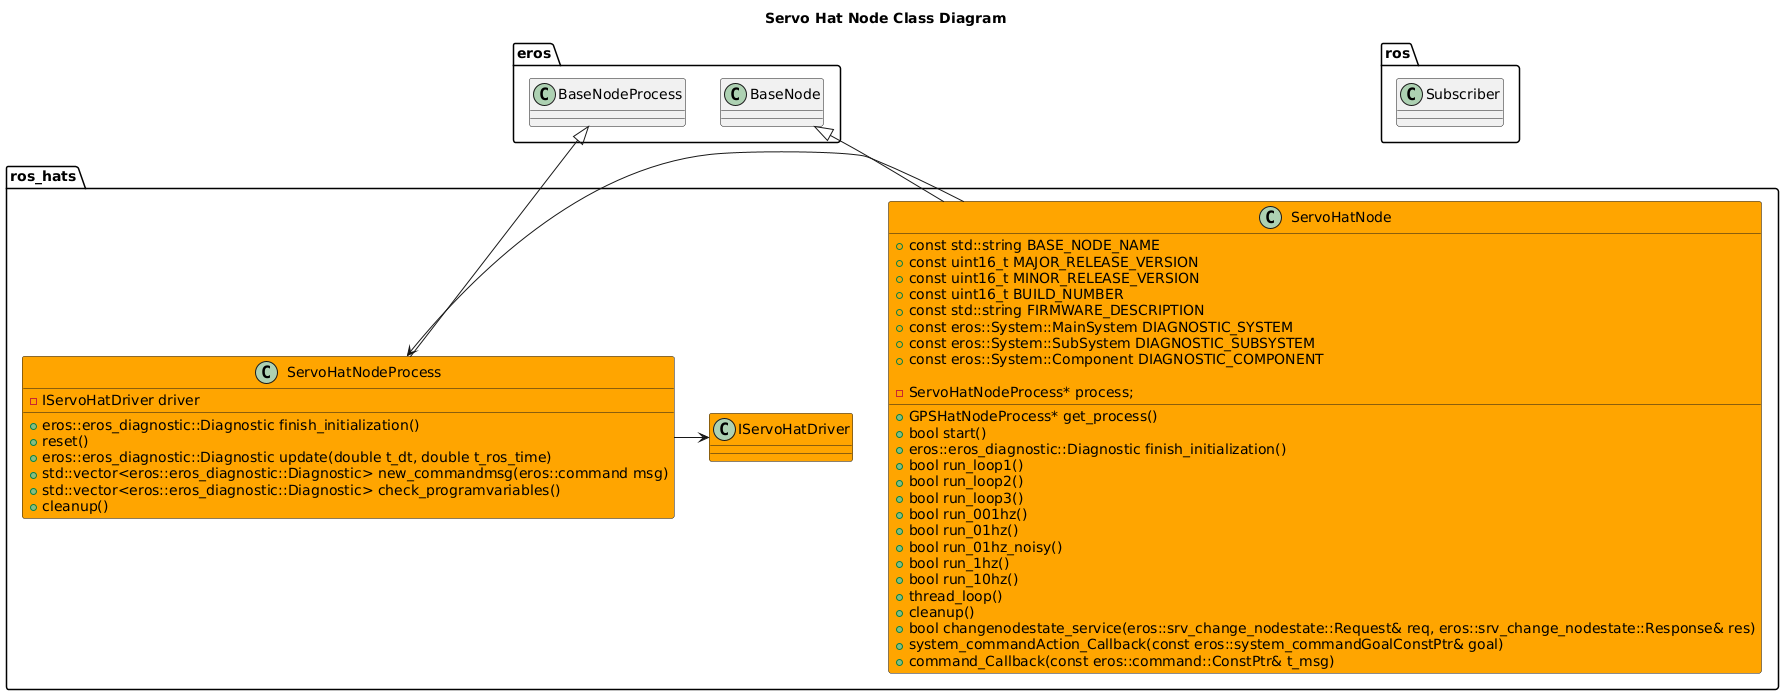
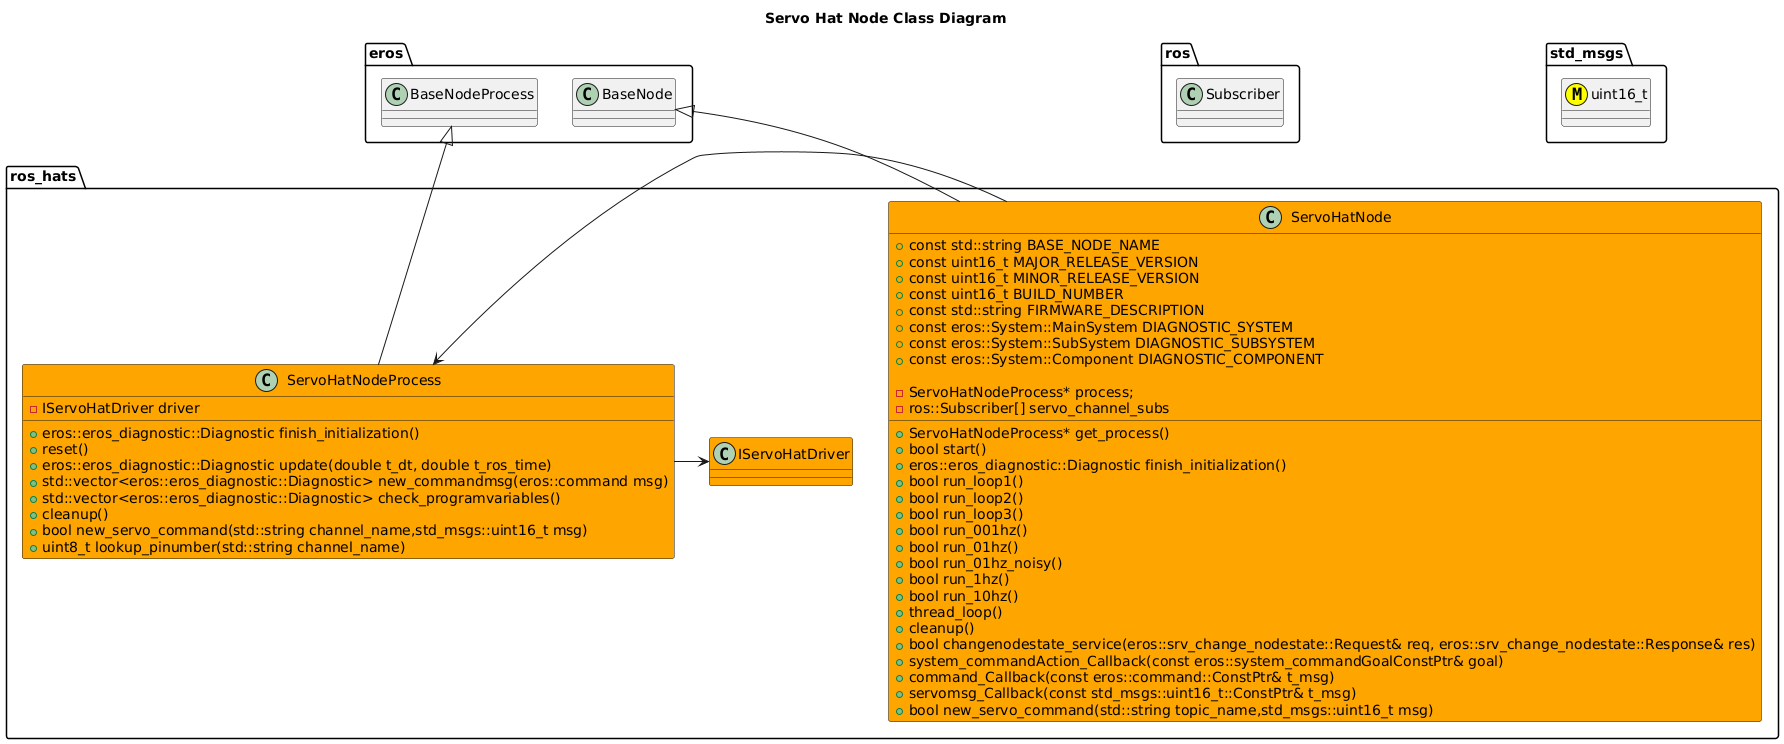
Major work done.

diff --git a/nodes/ServoHatNode/node/ServoHatNode.cpp b/nodes/ServoHatNode/node/ServoHatNode.cpp
@@ -6,7 +6,7 @@ ServoHatNode::ServoHatNode()
     : system_command_action_server(
           *n.get(),
           read_robotnamespace() + "SystemCommandAction",
-          boost::bind(&GPSHatNode::system_commandAction_Callback, this, _1),
+          boost::bind(&ServoHatNode::system_commandAction_Callback, this, _1),
           false) {
     system_command_action_server.start();
 }
@@ -45,7 +45,7 @@ bool ServoHatNode::changenodestate_service(eros::srv_change_nodestate::Request &
 bool ServoHatNode::start() {
     initialize_diagnostic(DIAGNOSTIC_SYSTEM, DIAGNOSTIC_SUBSYSTEM, DIAGNOSTIC_COMPONENT);
     bool status = false;
-    process = new GPSHatNodeProcess();
+    process = new ServoHatNodeProcess();
     set_basenodename(BASE_NODE_NAME);
     initialize_firmware(
         MAJOR_RELEASE_VERSION, MINOR_RELEASE_VERSION, BUILD_NUMBER, FIRMWARE_DESCRIPTION);
@@ -76,7 +76,7 @@ bool ServoHatNode::start() {
     diagnostic_types.push_back(eros::eros_diagnostic::DiagnosticType::DATA_STORAGE);
     diagnostic_types.push_back(eros::eros_diagnostic::DiagnosticType::SYSTEM_RESOURCE);
     diagnostic_types.push_back(eros::eros_diagnostic::DiagnosticType::COMMUNICATIONS);
-    diagnostic_types.push_back(eros::eros_diagnostic::DiagnosticType::TODO);
+    diagnostic_types.push_back(eros::eros_diagnostic::DiagnosticType::ACTUATORS);
     process->enable_diagnostics(diagnostic_types);
     process->finish_initialization();
     diagnostic = finish_initialization();
@@ -107,7 +107,7 @@ bool ServoHatNode::start() {
 eros::eros_diagnostic::Diagnostic ServoHatNode::read_launchparameters() {
     eros::eros_diagnostic::Diagnostic diag = diagnostic;
     command_sub = n->subscribe<eros::command>(
-        get_robotnamespace() + "SystemCommand", 10, &GPSHatNode::command_Callback, this);
+        get_robotnamespace() + "SystemCommand", 10, &ServoHatNode::command_Callback, this);
     get_logger()->log_notice("Configuration Files Loaded.");
     return diag;
 }
@@ -128,25 +128,25 @@ eros::eros_diagnostic::Diagnostic ServoHatNode::finish_initialization() {
                                       eros::Level::Type::INFO,
                                       eros::eros_diagnostic::Message::NOERROR,
                                       "All Configuration Files Loaded.");
-    diag = process->update_diagnostic(eros::eros_diagnostic::DiagnosticType::TODO,
+    diag = process->update_diagnostic(eros::eros_diagnostic::DiagnosticType::ACTUATORS,
                                       eros::Level::Type::WARN,
                                       eros::eros_diagnostic::Message::INITIALIZING,
-                                      "GPS Initializing...");
+                                      "Servo Hat Initializing...");
     return diag;
 }
-bool GPSHatNode::run_loop1() {
+bool ServoHatNode::run_loop1() {
     return true;
 }
-bool GPSHatNode::run_loop2() {
+bool ServoHatNode::run_loop2() {
     return true;
 }
-bool GPSHatNode::run_loop3() {
+bool ServoHatNode::run_loop3() {
     return true;
 }
-bool GPSHatNode::run_001hz() {
+bool ServoHatNode::run_001hz() {
     return true;
 }
-bool GPSHatNode::run_01hz() {
+bool ServoHatNode::run_01hz() {
     return true;
 }
 bool ServoHatNode::run_01hz_noisy() {
@@ -221,7 +221,7 @@ int main(int argc, char **argv) {
         return EXIT_FAILURE;
         // LCOV_EXCL_STOP
     }
-    std::thread thread(&ros_hats::GPSHatNode::thread_loop, node);
+    std::thread thread(&ros_hats::ServoHatNode::thread_loop, node);
     while ((status == true) and (kill_node == false)) {
         status = node->update(node->get_process()->get_nodestate());
     }

diff --git a/nodes/ServoHatNode/node/test/test_ServoHatNode.cpp b/nodes/ServoHatNode/node/test/test_ServoHatNode.cpp
@@ -3,12 +3,12 @@
 #include <gtest/gtest.h>
 #include <ros/ros.h>
 
-#include "../GPSHatNode.h"
+#include "../ServoHatNode.h"
 
 using namespace eros;
 
 std::string robot_namespace = "/test/";
-std::string unittest_nodename = "gps_hat_node";
+std::string unittest_nodename = "servo_hat_node";
 typedef actionlib::SimpleActionClient<eros::system_commandAction> CommandActionClient;
 uint64_t heartbeat_count = 0;
 eros::heartbeat latest_heartbeat;
@@ -16,9 +16,9 @@ void heartbeat_Callback(const eros::heartbeat& msg) {
     latest_heartbeat = msg;
     heartbeat_count++;
 }
-TEST(GPSHatNode, TestBasics) {
+TEST(ServoHatNode, TestBasics) {
     ros::NodeHandle nh("~");
-    Logger* logger = new Logger("DEBUG", "test_GPSHatNode");
+    Logger* logger = new Logger("DEBUG", "test_ServoHatNode");
     logger->enable_ROS_logger();
     std::string heartbeat_topic = robot_namespace + unittest_nodename + "/heartbeat";
     ros::Subscriber sub = nh.subscribe(heartbeat_topic, 100, &heartbeat_Callback);
@@ -26,7 +26,7 @@ TEST(GPSHatNode, TestBasics) {
     EXPECT_NE(ros::topic::waitForMessage<eros::heartbeat>(heartbeat_topic, ros::Duration(10)),
               nullptr);
     EXPECT_EQ(1, sub.getNumPublishers());
-    sleep(1.0);  // Wait for GPSHatNode to Start.
+    sleep(1.0);  // Wait for ServoHatNode to Start.
     EXPECT_TRUE(heartbeat_count > 0);
 
     logger->log_warn("Testing Unsupported Commands...");
@@ -72,7 +72,7 @@ TEST(GPSHatNode, TestBasics) {
 }
 int main(int argc, char** argv) {
     testing::InitGoogleTest(&argc, argv);
-    ros::init(argc, argv, "test_GPSHatNode");
+    ros::init(argc, argv, "test_ServoHatNode");
     ros::AsyncSpinner spinner(1);
     spinner.start();
     int ret = RUN_ALL_TESTS();

diff --git a/nodes/ServoHatNode/node/test/test_ServoHatNodeProcess.cpp b/nodes/ServoHatNode/node/test/test_ServoHatNodeProcess.cpp
@@ -1,26 +1,26 @@
-/*! \file test_GPSHatNodeProcess.cpp
+/*! \file test_ServoHatNodeProcess.cpp
  */
 #include <gtest/gtest.h>
 #include <stdio.h>
 
-#include "../GPSHatNodeProcess.h"
+#include "../ServoHatNodeProcess.h"
 using namespace eros;
 namespace ros_hats {
-class GPSHatNodeProcessTester : public GPSHatNodeProcess
+class ServoHatNodeProcessTester : public ServoHatNodeProcess
 {
    public:
-    GPSHatNodeProcessTester() {
+    ServoHatNodeProcessTester() {
     }
-    ~GPSHatNodeProcessTester() {
+    ~ServoHatNodeProcessTester() {
     }
 };
 }  // namespace ros_hats
 using namespace ros_hats;
 TEST(BasicTest, TestOperation) {
-    Logger* logger = new Logger("DEBUG", "UnitTestGPSHatNodeProcess");
-    GPSHatNodeProcessTester* tester = new GPSHatNodeProcessTester;
-    tester->initialize("UnitTestGPSHatNodeProcess",
-                       "UnitTestGPSHatNodeProcess",
+    Logger* logger = new Logger("DEBUG", "UnitTestServoHatNodeProcess");
+    ServoHatNodeProcessTester* tester = new ServoHatNodeProcessTester;
+    tester->initialize("UnitTestServoHatNodeProcess",
+                       "UnitTestServoHatNodeProcess",
                        "MyHost",
                        System::MainSystem::SIMROVER,
                        System::SubSystem::ENTIRE_SYSTEM,

diff --git a/nodes/ServoHatNode/driver/MockServoHatDriver/src/test/test_ServoHatDriver.cpp b/nodes/ServoHatNode/driver/MockServoHatDriver/src/test/test_ServoHatDriver.cpp
@@ -1,15 +1,15 @@
-/*! \file test_ServoHatDriver.cpp
+/*! \file test_MockServoHatDriver.cpp
  */
 #include <gtest/gtest.h>
 #include <stdio.h>
 
-#include "ServoHatDriver.h"
+#include "MockServoHatDriver.h"
 using namespace eros;
 using namespace ros_hats;
 
 TEST(BasicTest, TestOperation) {
-    Logger* logger = new Logger("DEBUG", "UnitTestGPSHatDriver");
-    ServoHatDriver SUT;
+    Logger* logger = new Logger("DEBUG", "UnitTestMockServoHatDriver");
+    MockServoHatDriver SUT;
     SUT.init(logger);
 
     double timeToRun = 10.0;
@@ -22,7 +22,7 @@ TEST(BasicTest, TestOperation) {
         timer += dt;
     }
 
-    // delete logger;
+    delete logger;
 }
 int main(int argc, char** argv) {
     testing::InitGoogleTest(&argc, argv);

diff --git a/nodes/ServoHatNode/node/ServoHatNode.h b/nodes/ServoHatNode/node/ServoHatNode.h
@@ -1,7 +1,7 @@
 /**
  * @file ServoHatNode.h
  * @author David Gitz
- * @brief  GPS Hat Node
+ * @brief  Servo Hat Node
  * @date 2025-02-21
  *
  * @copyright Copyright (c) 2025
@@ -46,7 +46,7 @@ class ServoHatNode : public eros::BaseNode
     const eros::System::SubSystem DIAGNOSTIC_SUBSYSTEM = eros::System::SubSystem::ENTIRE_SYSTEM;
 
     /*! \brief What Component this Node falls under.*/
-    const eros::System::Component DIAGNOSTIC_COMPONENT = eros::System::Component::TODO;
+    const eros::System::Component DIAGNOSTIC_COMPONENT = eros::System::Component::GPIO;
     ServoHatNode();
     ~ServoHatNode();
     ServoHatNodeProcess* get_process() {

diff --git a/nodes/ServoHatNode/node/ServoHatNodeProcess.h b/nodes/ServoHatNode/node/ServoHatNodeProcess.h
@@ -1,7 +1,7 @@
 /**
  * @file ServoHatNodeProcess.h
  * @author David Gitz
- * @brief GPS Hat Node Process for Node
+ * @brief Servo Hat Node Process for Node
  * @date 2025-02-21
  *
  * @copyright Copyright (c) 2025
@@ -15,6 +15,11 @@
 #include <sensor_msgs/NavSatStatus.h>
 
 #include "IServoHatDriver.h"
+#ifdef ARCHITECTURE_ARMV7L
+#include "ServoHatDriver.h"
+#else
+#include "MockServoHatDriver.h"
+#endif
 namespace ros_hats {
 /*! \class ServoHatNodeProcess ServoHatNodeProcess.h "ServoHatNodeProcess.h"
  *  \brief */

diff --git a/nodes/ServoHatNode/node/ServoHatNodeProcess.cpp b/nodes/ServoHatNode/node/ServoHatNodeProcess.cpp
@@ -8,7 +8,11 @@ ServoHatNodeProcess::~ServoHatNodeProcess() {
 }
 eros::eros_diagnostic::Diagnostic ServoHatNodeProcess::finish_initialization() {
     eros::eros_diagnostic::Diagnostic diag = get_root_diagnostic();
-    // driver = new GPSHatDriver;
+#ifdef ARCHITECTURE_ARMV7L
+    driver = new ServoHatDriver;
+#else
+    driver = new MockServoHatDriver;
+#endif
     driver->init(logger);
     return diag;
 }

diff --git a/nodes/ServoHatNode/driver/ServoHatDriver/src/test/test_ServoHatDriver.cpp b/nodes/ServoHatNode/driver/ServoHatDriver/src/test/test_ServoHatDriver.cpp
@@ -8,7 +8,7 @@ using namespace eros;
 using namespace ros_hats;
 
 TEST(BasicTest, TestOperation) {
-    Logger* logger = new Logger("DEBUG", "UnitTestGPSHatDriver");
+    Logger* logger = new Logger("DEBUG", "UnitTestServoHatDriver");
     ServoHatDriver SUT;
     SUT.init(logger);
 

diff --git a/nodes/ServoHatNode/driver/include/IServoHatDriver.h b/nodes/ServoHatNode/driver/include/IServoHatDriver.h
@@ -26,7 +26,7 @@ class IServoHatDriver
     }
     virtual ~IServoHatDriver(){};
     /**
-     * @brief Initialize GPS Hat Driver
+     * @brief Initialize Servo Hat Driver
      *
      * @param logger
      * @return true
